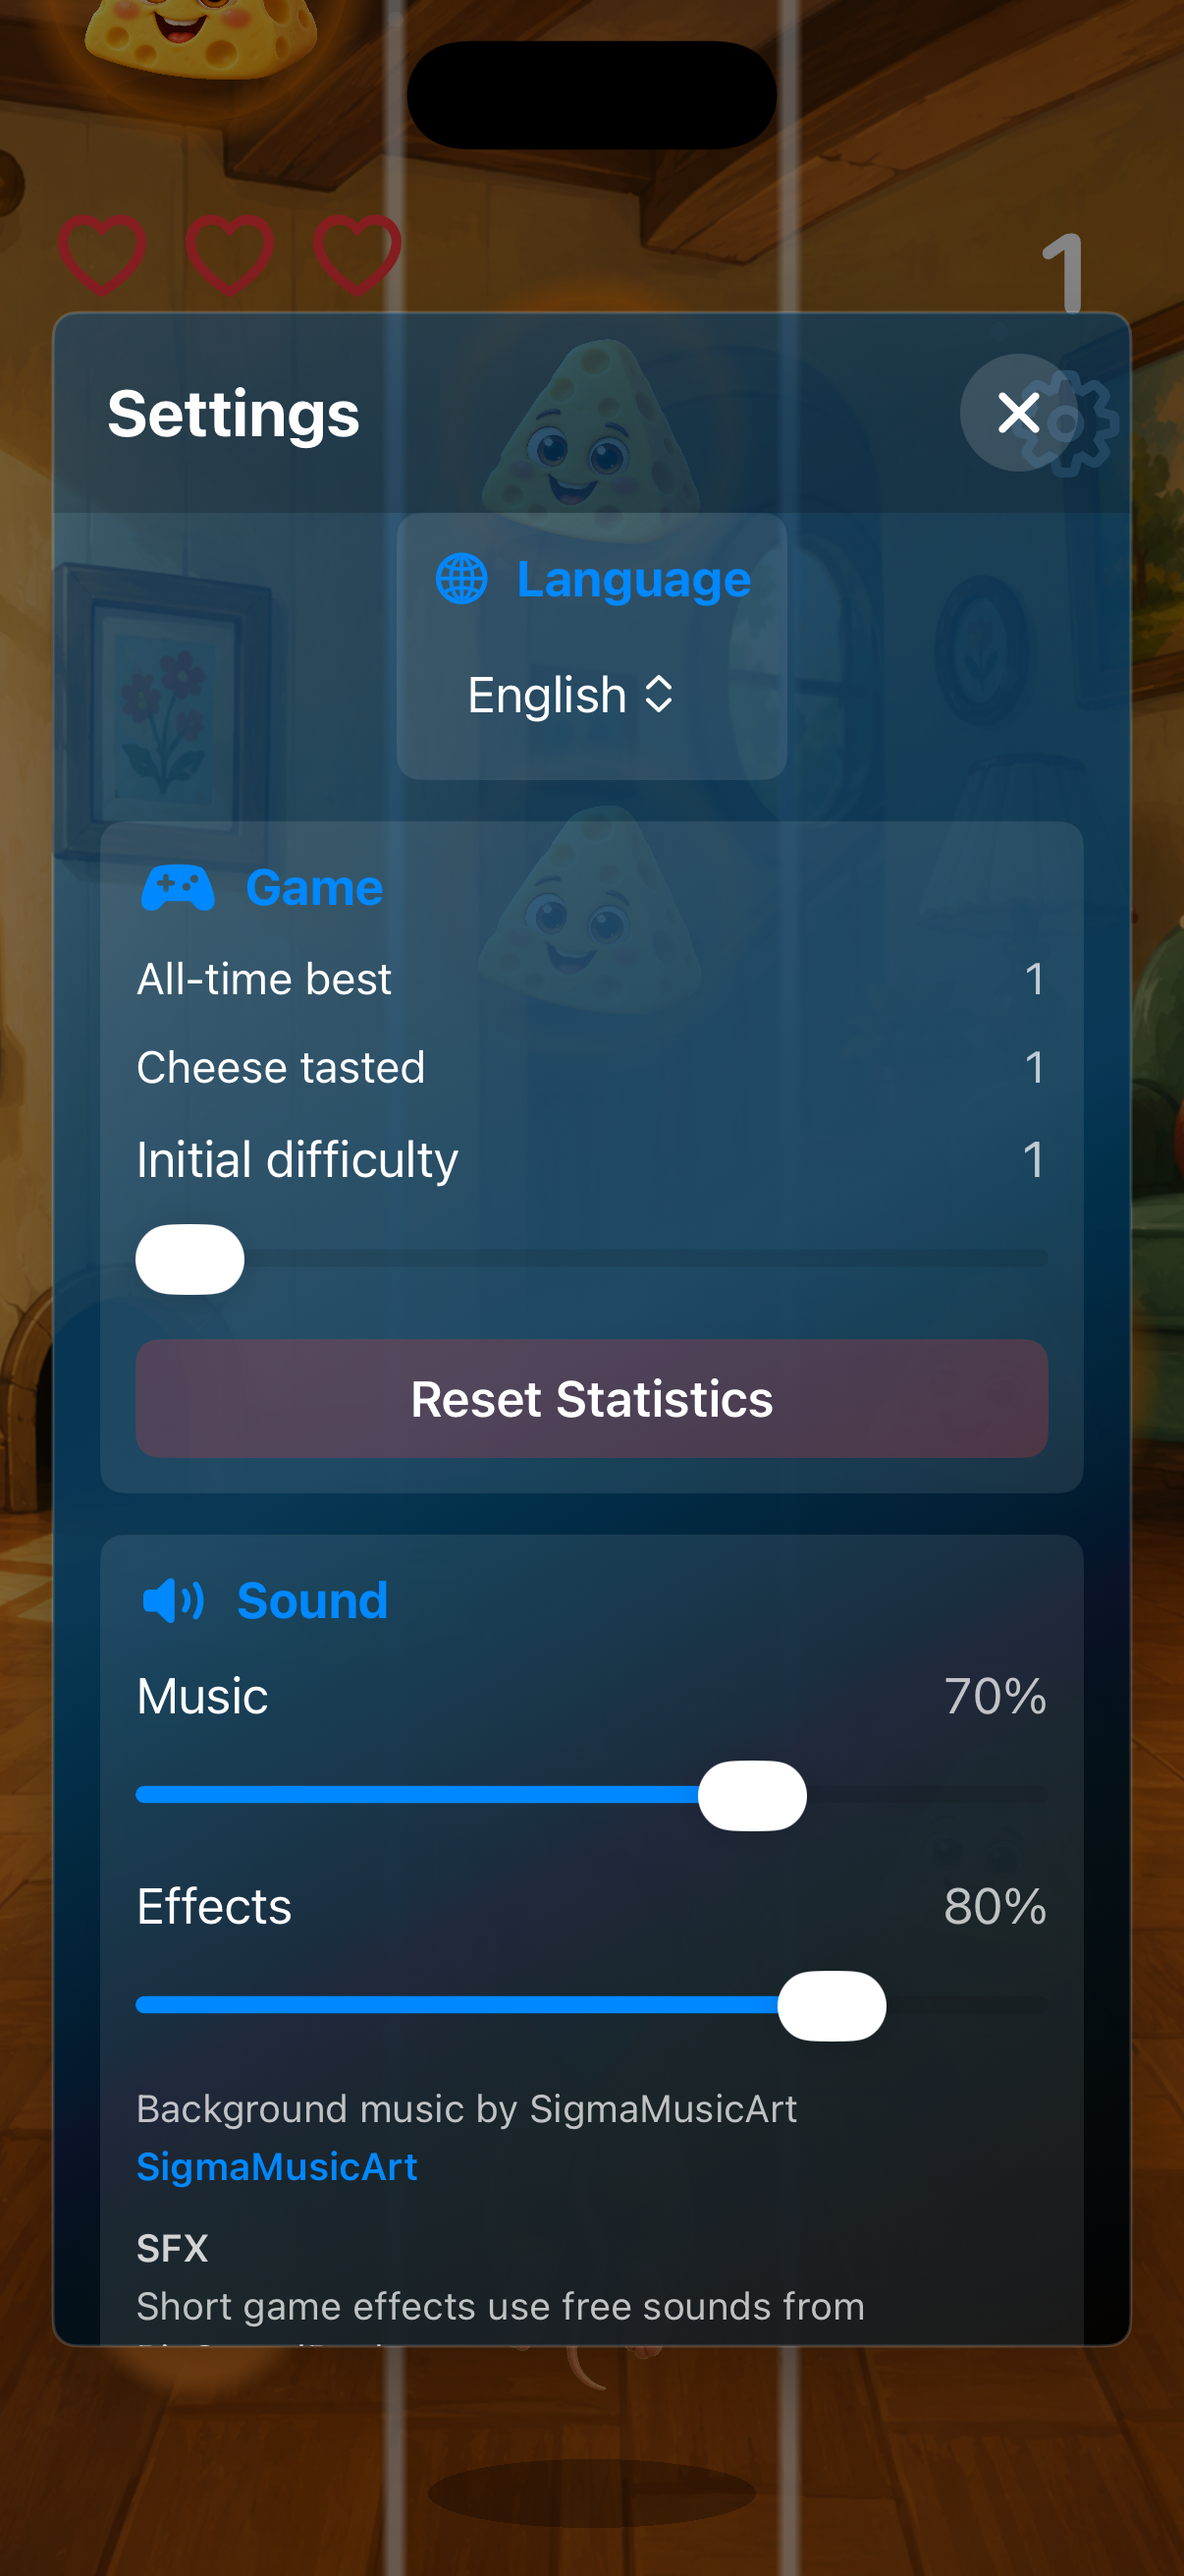
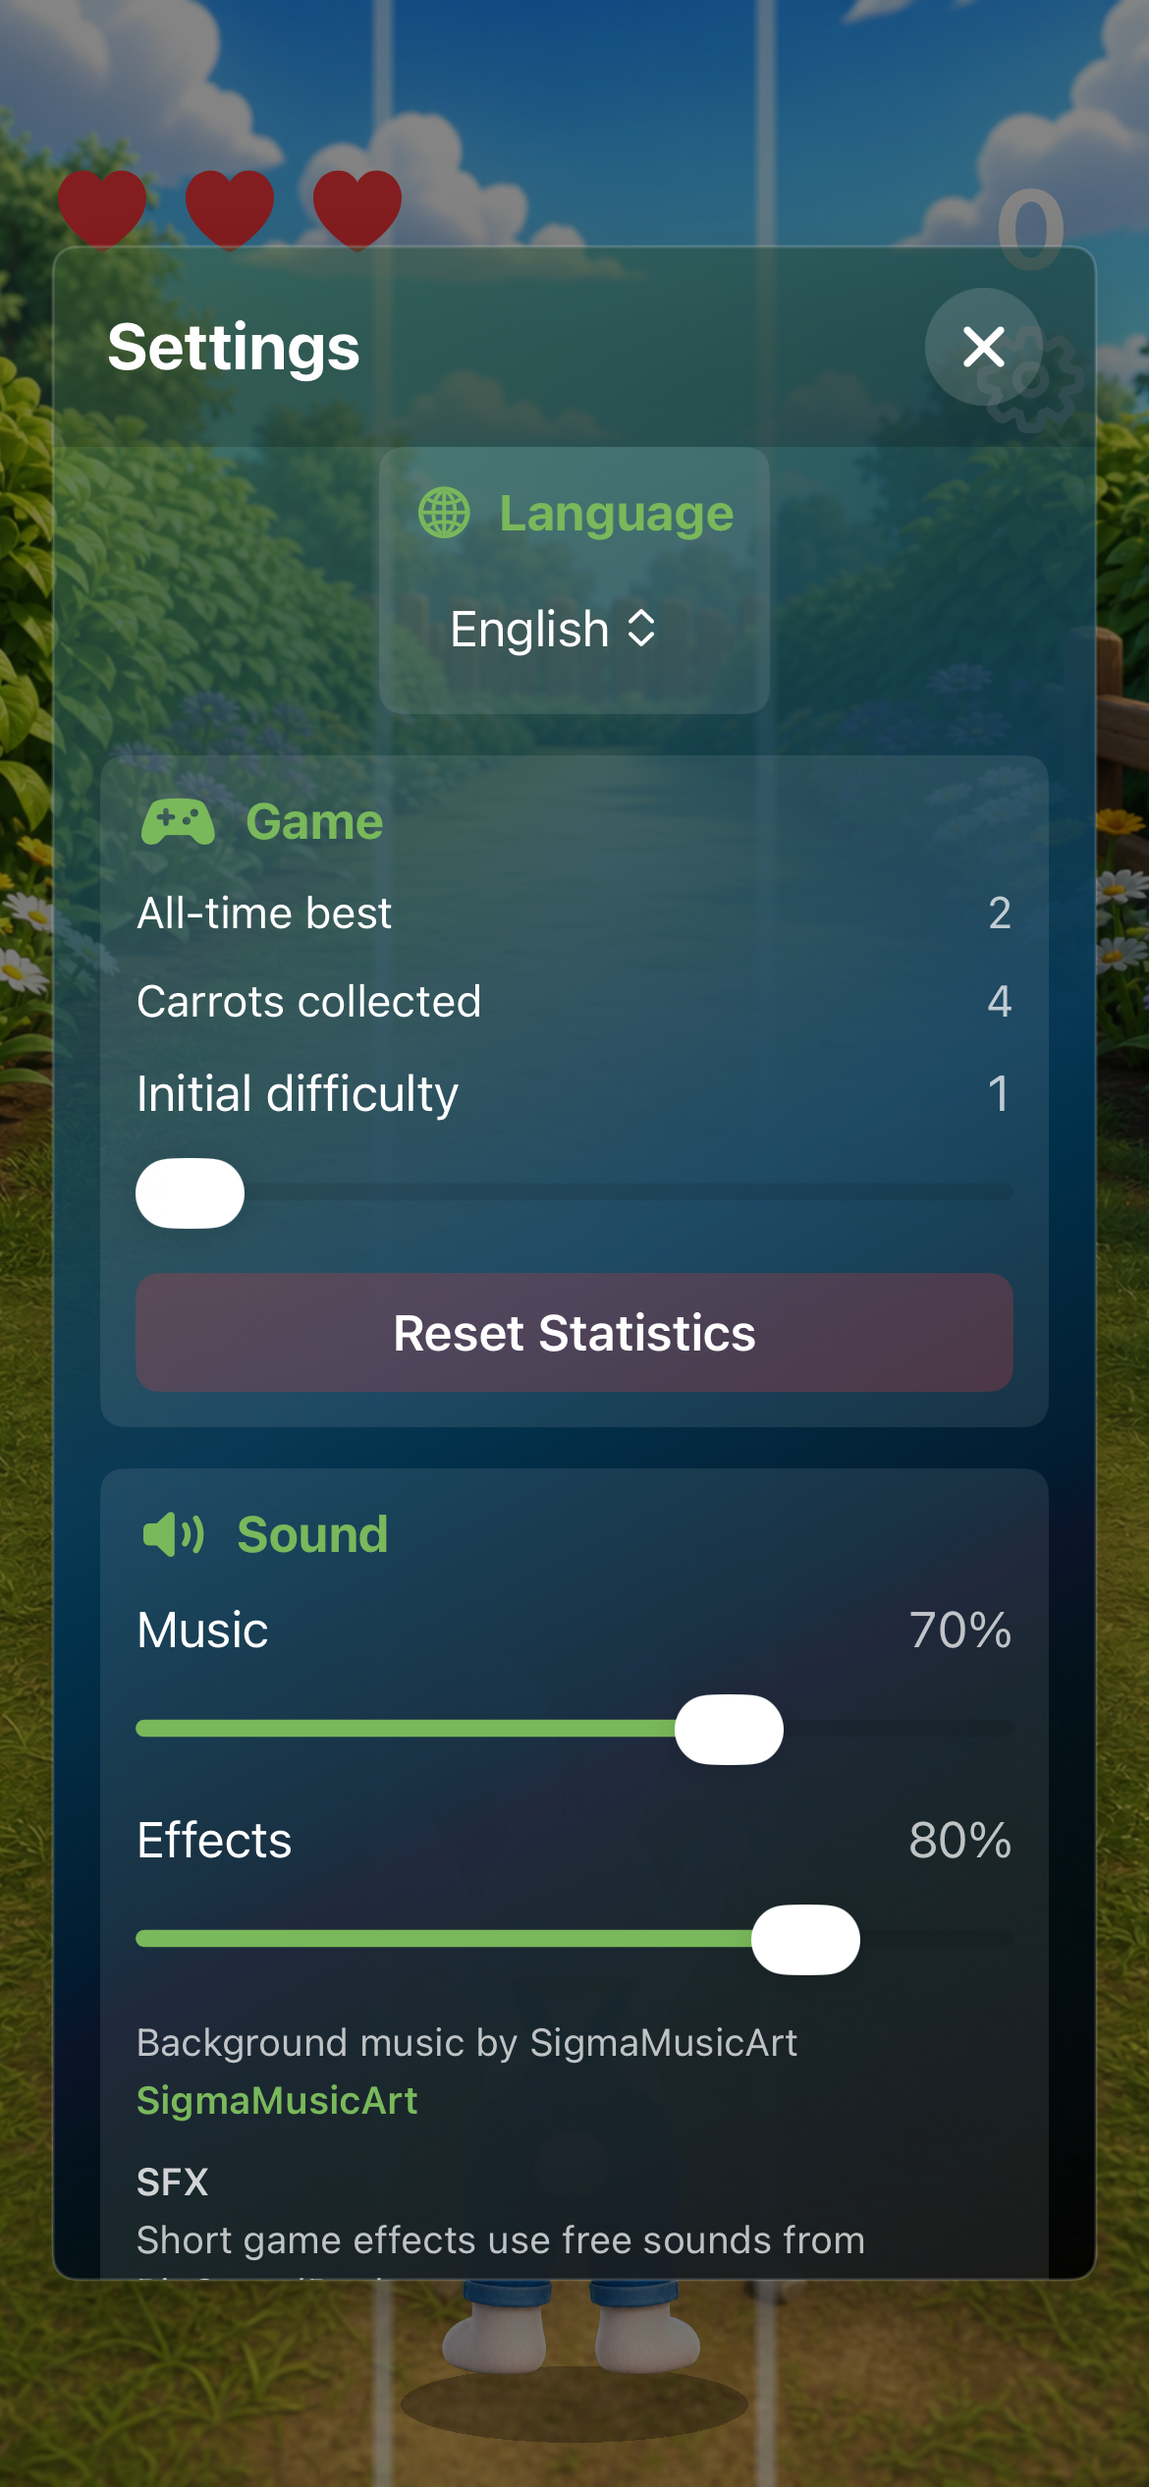
Refresh Simulator screenshots

diff --git a/index.html b/index.html
@@ -96,9 +96,9 @@
           <p>Морквинка, соковиті морквинки, три доріжки та зручні налаштування — саме так Зайчик Морквинка виглядає на iPhone.</p>
         </div>
         <div class="phone-gallery" aria-label="Скриншоти Зайчик Морквинка">
-          <figure class="phone phone-tall"><div class="phone-screen"><img src="images/screenshot-splash.png?v=20260727-2" alt="Заставка Зайчик Морквинка з Морквинкою" loading="lazy"></div><figcaption>Знайомство з Морквинкою</figcaption></figure>
-          <figure class="phone phone-center"><div class="phone-screen"><img src="images/screenshot-gameplay.png?v=20260727-3" alt="Ігровий раунд із морквинками на трьох доріжках" loading="lazy"></div><figcaption>Збирайте морквинки</figcaption></figure>
-          <figure class="phone phone-tall"><div class="phone-screen"><img src="images/screenshot-settings.png?v=20260727-3" alt="" loading="lazy"></div><figcaption>Усе під контролем</figcaption></figure>
+          <figure class="phone phone-tall"><div class="phone-screen"><img src="images/screenshot-splash.png?v=20260727-4" alt="Заставка Зайчик Морквинка з Морквинкою" loading="lazy"></div><figcaption>Знайомство з Морквинкою</figcaption></figure>
+          <figure class="phone phone-center"><div class="phone-screen"><img src="images/screenshot-gameplay.png?v=20260727-4" alt="Ігровий раунд із морквинками на трьох доріжках" loading="lazy"></div><figcaption>Збирайте морквинки</figcaption></figure>
+          <figure class="phone phone-tall"><div class="phone-screen"><img src="images/screenshot-settings.png?v=20260727-4" alt="" loading="lazy"></div><figcaption>Усе під контролем</figcaption></figure>
         </div>
       </div>
     </section>
